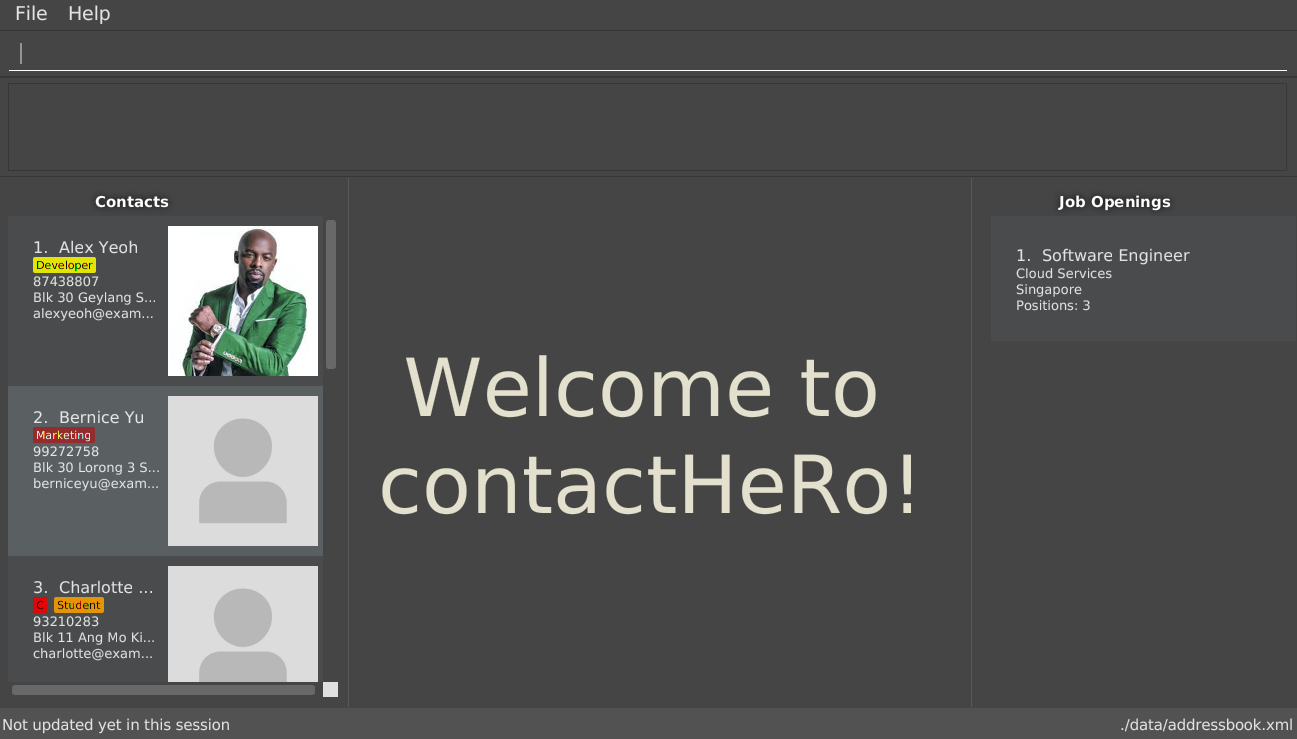
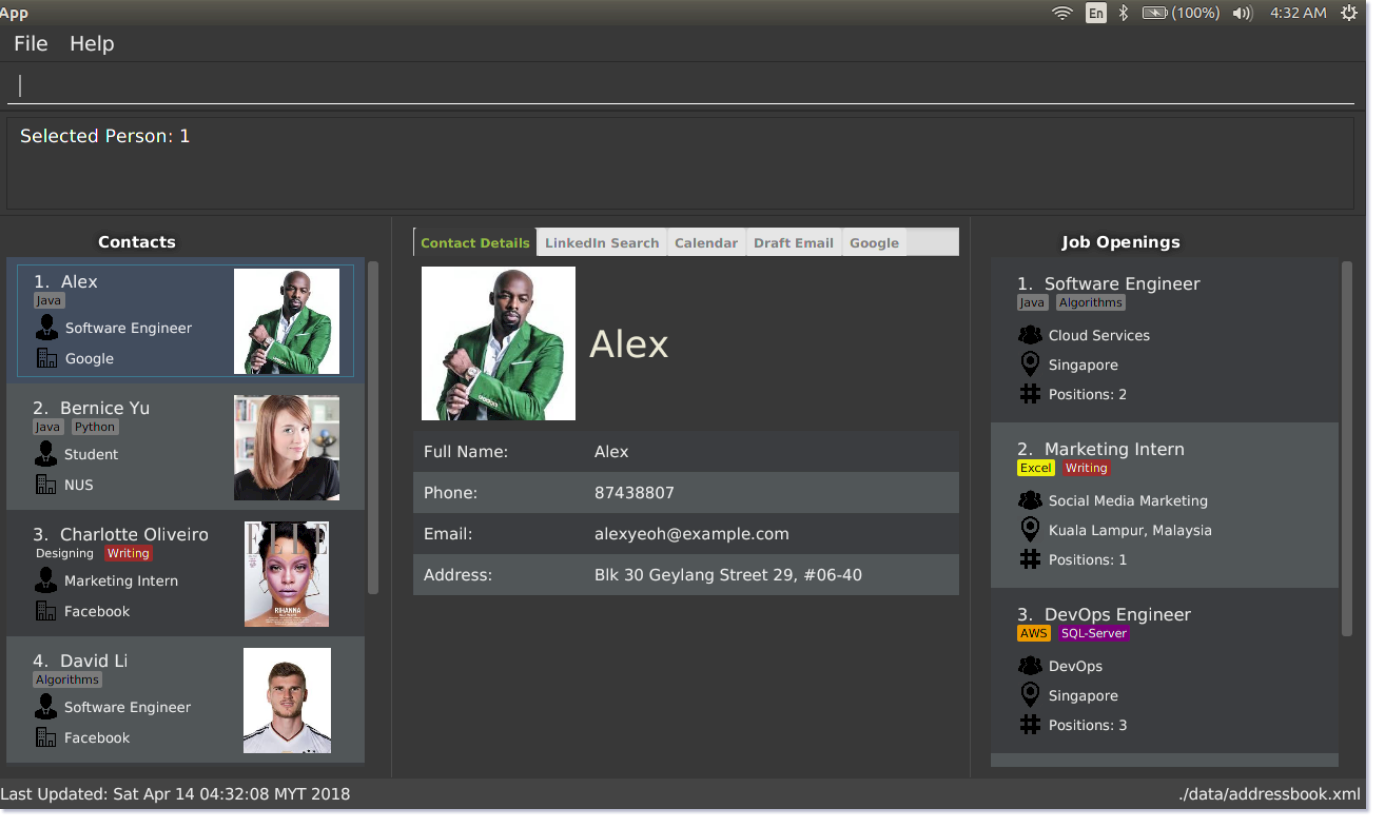
Rebuild pages at ae909f978943c8779a185e581b19d836c3372e03

diff --git a/UserGuide.html b/UserGuide.html
@@ -207,7 +207,16 @@ Not sure how to install Java? Visit the oracle website link below for more infor
 <p>Double-click the file to start the app.</p>
 </li>
 <li>
-<p>Login using the default username,<code>Admin</code> and default password, <code>ad123</code>.</p>
+<p>The contactHeRo welcome window should appear in a few seconds as shown below (Refer to figure 1).</p>
+<div class="imageblock" style="text-align: center">
+<div class="content">
+<img src="images/UiOnStartup.png" alt="UiOnStartup" width="800">
+</div>
+<div class="title">Figure 1. contactHeRo UI on launch</div>
+</div>
+</li>
+<li>
+<p>Login using the default username,<code>Admin</code> and default password, <code>ad123</code>. You should see the user interface as shown below (Refer to figure 2) in a few seconds.</p>
 <div class="admonitionblock note">
 <table>
 <tr>
@@ -220,14 +229,11 @@ You can change the password later using the <code>updatepassword</code> command.
 </tr>
 </table>
 </div>
-</li>
-<li>
-<p>The user interface should appear in a few seconds as shown below (Refer to figure 1).</p>
 <div class="imageblock" style="text-align: center">
 <div class="content">
 <img src="images/UIMarkup.png" alt="UIMarkup" width="800">
 </div>
-<div class="title">Figure 1. contactHeRo UI after login</div>
+<div class="title">Figure 2. contactHeRo UI after login</div>
 </div>
 </li>
 </ol>
@@ -283,7 +289,7 @@ e.g. typing <strong><code>help</code></strong> and pressing <kbd>Enter</kbd> wil
 <div class="content">
 <img src="images/commandBox.png" alt="commandBox" width="790">
 </div>
-<div class="title">Figure 2. Command Box in contactHeRo</div>
+<div class="title">Figure 3. Command Box in contactHeRo</div>
 </div>
 <div class="paragraph">
 <p><strong>Command Format</strong><br>
@@ -680,7 +686,7 @@ This selects the 1st person in the results of the <code>find</code> command.</p>
 <div class="content">
 <img src="images/selectCommand.png" alt="selectCommand" width="800">
 </div>
-<div class="title">Figure 3. Select Command Execution</div>
+<div class="title">Figure 4. Select Command Execution</div>
 </div>
 </div>
 <div class="sect3">
@@ -746,7 +752,7 @@ This loads the LinkedIn search of 1st person in the results of the <code>find</c
 <div class="content">
 <img src="images/linkedInCommand.png" alt="linkedInCommand" width="800">
 </div>
-<div class="title">Figure 4. LinkedIn Command Execution</div>
+<div class="title">Figure 5. LinkedIn Command Execution</div>
 </div>
 </div>
 </div>
@@ -794,7 +800,7 @@ Format: <code>addjob p/POSITION t/TEAM l/LOCATION n/NUMBER_OF_POSITIONS s/SKILLS
 <div class="content">
 <img src="images/addjobCommand.png" alt="addjobCommand">
 </div>
-<div class="title">Figure 5. A job opening in contactHeRo</div>
+<div class="title">Figure 6. A job opening in contactHeRo</div>
 </div>
 </div>
 <div class="sect3">
@@ -1008,7 +1014,7 @@ This will show any person whose skills match any of those required for the job o
 <div class="content">
 <img src="images/matchjobCommand.png" alt="matchjobCommand" width="800">
 </div>
-<div class="title">Figure 6. MatchJob Command Execution</div>
+<div class="title">Figure 7. MatchJob Command Execution</div>
 </div>
 </div>
 </div>
@@ -1118,7 +1124,7 @@ Example: <code>date</code></p>
 <div class="content">
 <img src="images/dateView.png" alt="dateView" width="400">
 </div>
-<div class="title">Figure 7. Date view</div>
+<div class="title">Figure 8. Date view</div>
 </div>
 </div>
 <div class="sect3">
@@ -1178,7 +1184,7 @@ Example: <code>week</code></p>
 <div class="content">
 <img src="images/weekView.png" alt="weekView" width="400">
 </div>
-<div class="title">Figure 8. Week view</div>
+<div class="title">Figure 9. Week view</div>
 </div>
 </div>
 <div class="sect3">
@@ -1215,7 +1221,7 @@ Example: <code>month</code></p>
 <div class="content">
 <img src="images/monthView.png" alt="monthView" width="400">
 </div>
-<div class="title">Figure 9. Month view</div>
+<div class="title">Figure 10. Month view</div>
 </div>
 </div>
 <div class="sect3">
@@ -1252,7 +1258,7 @@ Example: <code>year</code></p>
 <div class="content">
 <img src="images/yearView.png" alt="yearView" width="400">
 </div>
-<div class="title">Figure 10. Year view</div>
+<div class="title">Figure 11. Year view</div>
 </div>
 </div>
 </div>
@@ -1313,7 +1319,7 @@ This will open up the <code>Google</code> tab for you to login. On running the a
 <div class="content">
 <img src="images/googlelogin1.PNG" alt="googlelogin1" width="600">
 </div>
-<div class="title">Figure 11. The Google log in page</div>
+<div class="title">Figure 12. The Google log in page</div>
 </div>
 <div class="admonitionblock note">
 <table>
@@ -1399,7 +1405,7 @@ If you have also used <code>sub/Interview on 13 May 2018</code> in the command, 
 <div class="content">
 <img src="images/emailSS1.PNG" alt="emailSS1" width="790">
 </div>
-<div class="title">Figure 12. The User Interface to draft your email</div>
+<div class="title">Figure 13. The User Interface to draft your email</div>
 </div>
 <div class="admonitionblock tip">
 <table>
@@ -1423,7 +1429,7 @@ a pop-up message as shown below.</p>
 <div class="content">
 <img src="images/emailSS2.PNG" alt="emailSS2" width="400">
 </div>
-<div class="title">Figure 13. Pop-up message</div>
+<div class="title">Figure 14. Pop-up message</div>
 </div>
 </div>
 </div>
@@ -1442,7 +1448,7 @@ Format: <code>help</code></p>
 <div class="content">
 <img src="images/helpWindow.png" alt="helpWindow" width="790">
 </div>
-<div class="title">Figure 14. Help Window in contactHeRo</div>
+<div class="title">Figure 15. Help Window in contactHeRo</div>
 </div>
 </div>
 <div class="sect3">
@@ -1981,7 +1987,7 @@ We are willing to help you.<br></p>
 </div>
 <div id="footer">
 <div id="footer-text">
-Last updated 2018-04-14 18:46:24 UTC
+Last updated 2018-04-14 19:10:34 UTC
 </div>
 </div>
 </body>

diff --git a/index.html b/index.html
@@ -25,7 +25,7 @@
 <div class="content">
 <img src="docs/images/Ui.png" alt="Ui" width="600">
 </div>
-<div class="title">Figure 1. contactHeRo on launch</div>
+<div class="title">Figure 1. The contactHeRo User Interface</div>
 </div>
 <div class="paragraph">
 <p><strong>Welcome to contactHeRo!</strong></p>
@@ -94,7 +94,7 @@ manage which include contact details and profiles of potential employees. It is 
 </div>
 <div id="footer">
 <div id="footer-text">
-Last updated 2018-04-14 18:46:25 UTC
+Last updated 2018-04-14 19:10:34 UTC
 </div>
 </div>
 </body>

diff --git a/team/kush1509.html b/team/kush1509.html
@@ -1022,7 +1022,7 @@ It is essential for them to have a quick and easy access to these contacts. Henc
 </div>
 <div id="footer">
 <div id="footer-text">
-Last updated 2018-04-14 18:46:25 UTC
+Last updated 2018-04-14 19:10:34 UTC
 </div>
 </div>
 </body>

diff --git a/LearningOutcomes.html b/LearningOutcomes.html
@@ -561,7 +561,7 @@ class gives some examples of how to use <em>Equivalence Partitions</em>, <em>Bou
 </div>
 <div id="footer">
 <div id="footer-text">
-Last updated 2018-04-14 18:46:24 UTC
+Last updated 2018-04-14 19:10:34 UTC
 </div>
 </div>
 </body>

diff --git a/UsingCoveralls.html b/UsingCoveralls.html
@@ -115,7 +115,7 @@ If you have not set up Travis CI, see <a href="UsingTravis.html">UsingTravis.ado
 </div>
 <div id="footer">
 <div id="footer-text">
-Last updated 2018-04-14 18:46:24 UTC
+Last updated 2018-04-14 19:10:34 UTC
 </div>
 </div>
 </body>

diff --git a/UsingGradle.html b/UsingGradle.html
@@ -261,7 +261,7 @@ See <code>build.gradle</code> &#8594; <code>allprojects</code> &#8594; <code>dep
 </div>
 <div id="footer">
 <div id="footer-text">
-Last updated 2018-04-14 18:46:24 UTC
+Last updated 2018-04-14 19:10:34 UTC
 </div>
 </div>
 </body>

diff --git a/UsingNetlify.html b/UsingNetlify.html
@@ -142,7 +142,7 @@ The publish directory is the directory in which the built HTML documentation res
 </div>
 <div id="footer">
 <div id="footer-text">
-Last updated 2018-04-14 18:46:24 UTC
+Last updated 2018-04-14 19:10:34 UTC
 </div>
 </div>
 </body>

diff --git a/team/KevinChin.html b/team/KevinChin.html
@@ -511,7 +511,7 @@ main thread in order to wait for the user to authenticate, if the user close the
 </div>
 <div id="footer">
 <div id="footer-text">
-Last updated 2018-04-14 18:46:25 UTC
+Last updated 2018-04-14 19:10:34 UTC
 </div>
 </div>
 </body>

diff --git a/team/LimJinShengJason.html b/team/LimJinShengJason.html
@@ -137,7 +137,7 @@ this may expose some of the sensitive data which the user has inputted, like log
 </div>
 <div id="footer">
 <div id="footer-text">
-Last updated 2018-04-14 18:46:25 UTC
+Last updated 2018-04-14 19:10:34 UTC
 </div>
 </div>
 </body>

diff --git a/UsingTravis.html b/UsingTravis.html
@@ -299,7 +299,7 @@ Suggested change: Remove the codacy badge from <code>README</code>.</p>
 </div>
 <div id="footer">
 <div id="footer-text">
-Last updated 2018-04-14 18:46:24 UTC
+Last updated 2018-04-14 19:10:34 UTC
 </div>
 </div>
 </body>

diff --git a/team/DoAndreKhoiNguyen.html b/team/DoAndreKhoiNguyen.html
@@ -622,7 +622,7 @@ Don&#8217;t know Image and ImageView. Check these two links:<br>
 </div>
 <div id="footer">
 <div id="footer-text">
-Last updated 2018-04-14 18:46:25 UTC
+Last updated 2018-04-14 19:10:34 UTC
 </div>
 </div>
 </body>

diff --git a/UsingCheckstyle.html b/UsingCheckstyle.html
@@ -103,7 +103,7 @@ Restart the IDE to complete the installation.</p>
 </div>
 <div id="footer">
 <div id="footer-text">
-Last updated 2018-04-14 18:46:24 UTC
+Last updated 2018-04-14 19:10:34 UTC
 </div>
 </div>
 </body>
